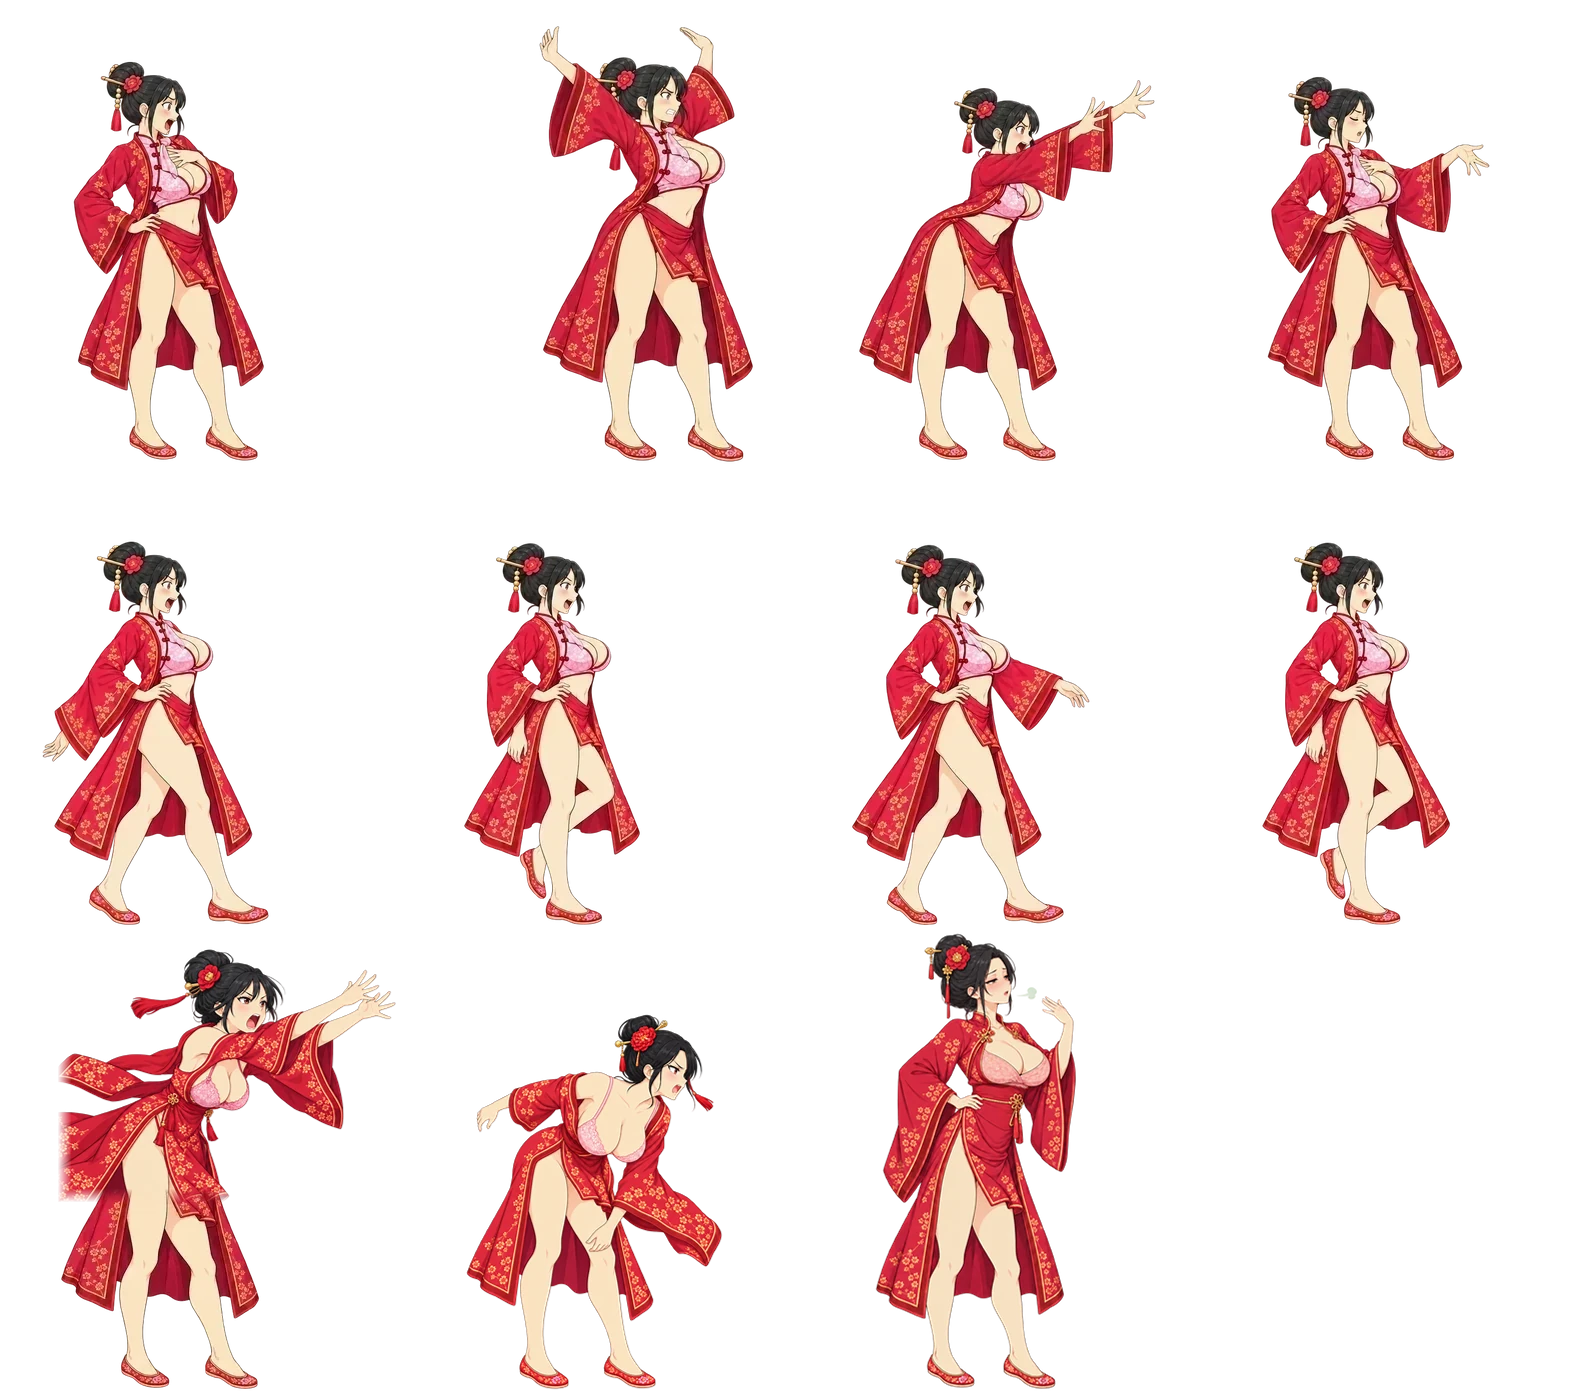
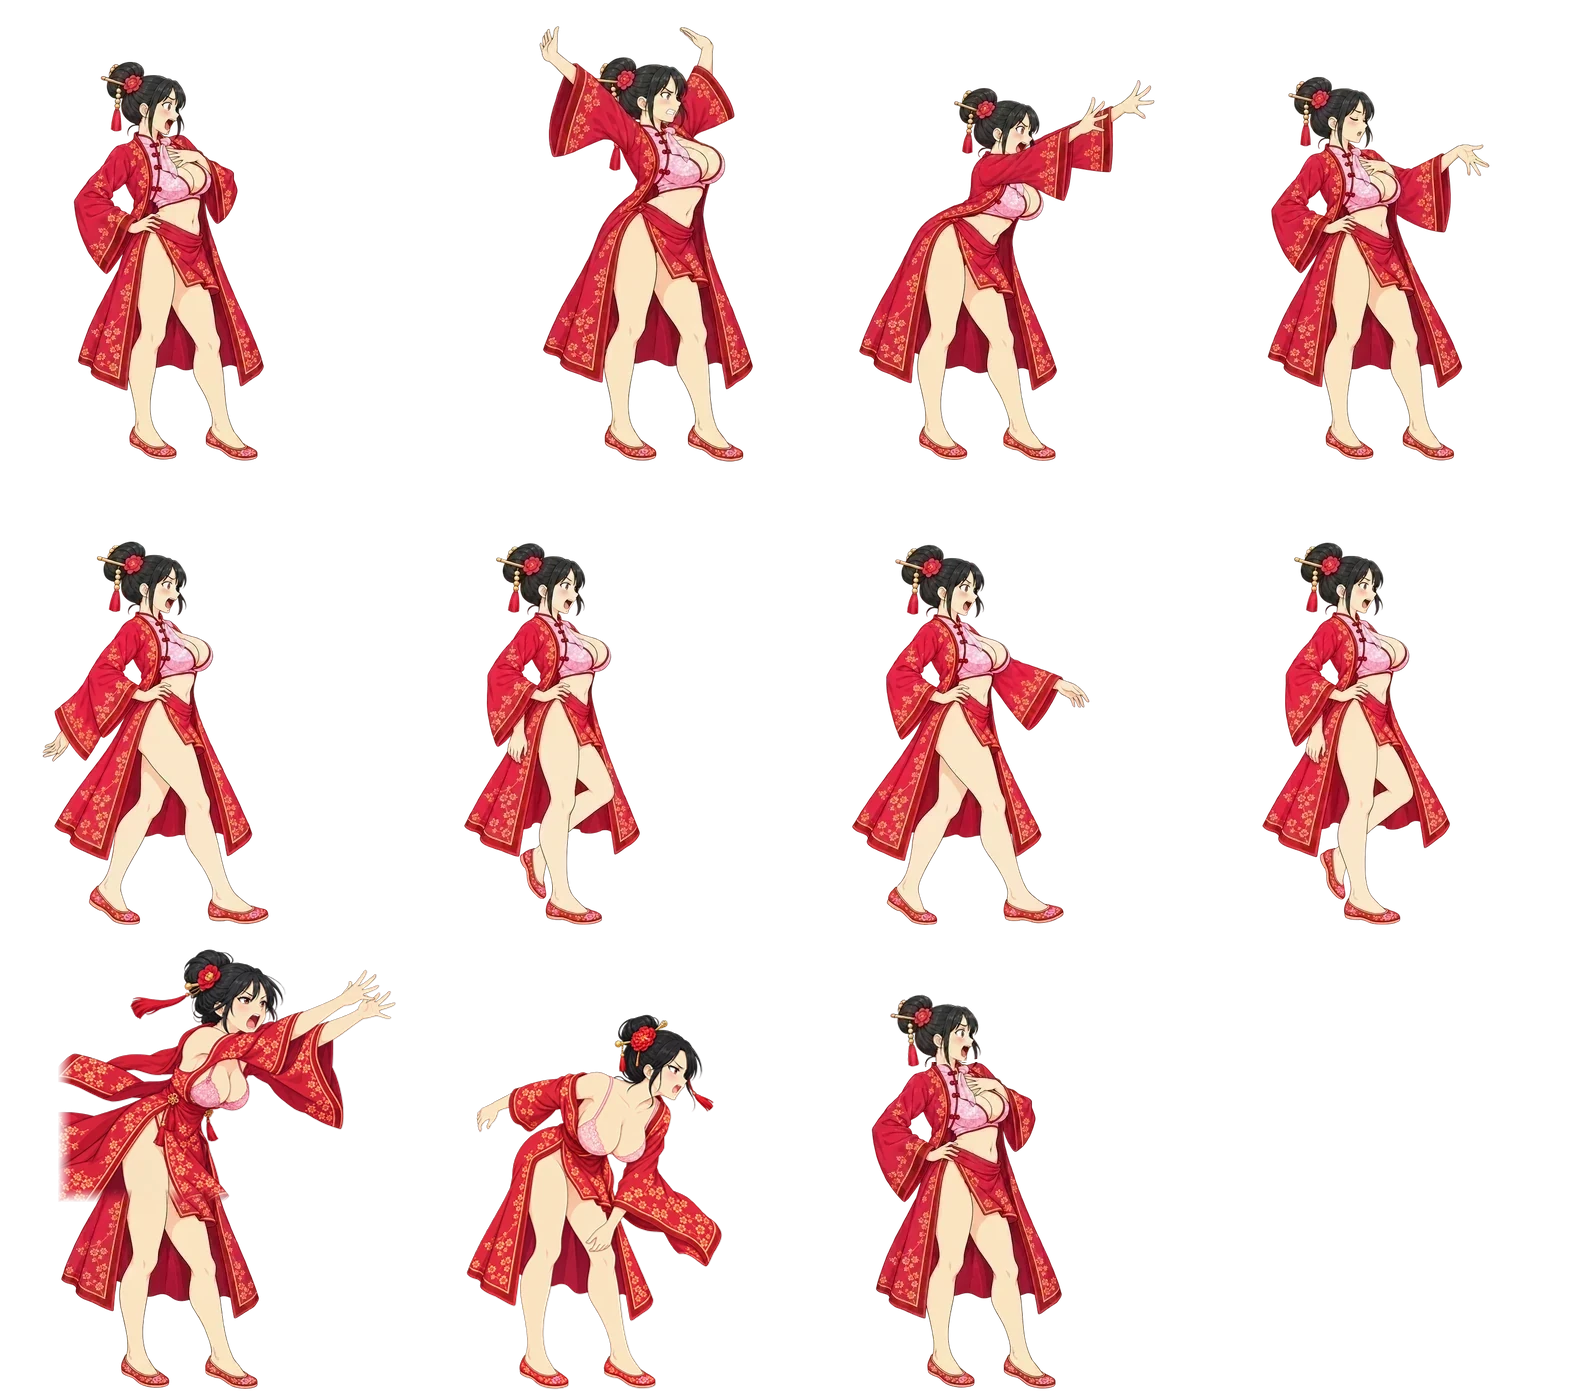
feat: G5 idle2 重做——idle 头绕脖子歪 9°（切件，G5_tong/headidle2.py，身子逐像素同 idle），待机轮换接回；算盘挂件 idle2 位置同 idle

Changed region(s): [[0.5219, 0.6487, 0.6754, 0.9576], [0.6447, 0.9885, 0.6754, 1.0], [0.5833, 0.9885, 0.614, 1.0]]

diff --git a/chashouji/web/trio_bestie.js b/chashouji/web/trio_bestie.js
@@ -312,12 +312,12 @@ const TRIO_BESTIE = {
          dist = 6 步 × 59.5 × s，写死：不写时引擎按 cell × s + 30 取整成 6 步、每步压短 0.3 px */
       enter: { kind: 'walk', fps: 6, bob: 6, stride: 119, dist: 299.9, seq: [[['walk1', 'walk2', 'walk3', 'walk4'], 9]] },
       exit: { frame: ['walk1', 'walk2', 'walk3', 'walk4'], fps: 8, flip: true, T: 0.8 },
-      idle: { frame: 'idle', breathe: [0.014, 0.8, 0] },   /* idle2 停用（2026-10-02 总控）：现有 idle2 是整张重生的人，头顶比 idle 高 56 px、站姿也变了，待机轮换时人忽大忽小；等按 idle 底局部重画（addframes inplace）再接回 */
+      idle: { frame: 'idle', breathe: [0.014, 0.8, 0], alt: { frame: 'idle2', every: [1.2, 2.2], hold: [0.6, 1.0] } },   /* idle2 = 头绕脖子歪 9°（切件，bestie/G5_tong/headidle2.py，身子逐像素同 idle）；原整张重生的 idle2 头顶高 56 px，769478b 停用后换掉 */
       /* 算盘是挂件层，和甩出去的是同一把：3D 图集 prop_abacus 最正面那一格转正（bestie/G5_tong/abacus_part.py，屏幕长边 90 px，改 s 要重跑），
          上面一根红吊绳吊在左胯，绕绳结晃；举过头顶 / 甩出去那两帧不画（在手里的是 3D 算盘）。
          ammo: true = 胯上这把就是甩出去的那把：飞出去还没落完就不画（不然 follow 帧胯上一把、空中一把），落完从吊绳结长回来 */
       parts: [{ src: 'assets/trio/G5_abacus.webp', pivot: [55, 3], z: 1, sway: [0.1, 0.9, 0], ammo: true,
-                at: { idle: [118, 238, 0], follow: [118, 246, 0], walk1: [124, 250, 0], walk2: [118, 250, 0], walk3: [124, 250, 0], walk4: [118, 250, 0], idle2: [128, 238, 0] } }],
+                at: { idle: [118, 238, 0], follow: [118, 246, 0], walk1: [124, 250, 0], walk2: [118, 250, 0], walk3: [124, 250, 0], walk4: [118, 250, 0], idle2: [118, 238, 0] } }],   // idle2 身子同 idle
       /* 两手举过头顶（后排：出手点在女生头顶以上）→ 往前甩出 → 捂胸叹气。3D 算盘照道具表 r 40 cell 115 scale 1.35，转速 π / T */
       atk: { kind: 'throw', item: 'abacus', r: 40, atlas: { src: 'assets/trio/prop_abacus.webp', n: 36, cols: 6, cell: 115, scale: 1.35 },
              seq: [['wind', 0.26], ['release', 0.06, 'fire'], ['throw', 0.1], ['through', 0.12], ['follow', 0.25]],   // 精闺1 P6：release 出手瞬间 / through 跟随（bestie/tools/addframes.py）

diff --git a/chashouji/v14/trio/bestie/G5_tong/headidle2.py b/chashouji/v14/trio/bestie/G5_tong/headidle2.py
@@ -1,0 +1,17 @@
+"""G5 待机换姿势 idle2（精闺1 P7，2026-10-02 总控）：idle 帧的头绕脖子歪 9°（愣住的人歪头）。
+原 idle2 是整张重生的人（头顶高 56 px、站姿也变），769478b 停用；按规范要以 idle 为底只改局部，但 G5 待机两只手都压在身上（按胸口、叉腰）、
+胳膊切不下来，以 idle 为底的局部重绘又两次被上游审核拒，所以改动头：格内 y < Y 只有头、发髻和簪子（四周透明），抠出来绕颈点转、贴回 —— 身子逐像素同 idle。
+直接替换图集里 idle2 那一格；重新 build 图集之后再跑一次。在 chashouji 下：python3 v14/trio/bestie/G5_tong/headidle2.py"""
+import json, os
+import numpy as np
+from PIL import Image
+WEB = os.path.join(os.path.dirname(os.path.abspath(__file__)), '../../../../web/assets/trio')
+Y, PIV, ROT = 134, (160, 136), 9     # 切口行（领口上沿）、颈点（格内）、转多少度（正 = 逆时针 = 头往后歪）
+m = json.load(open(os.path.join(WEB, 'G5_tong.json'))); a = Image.open(os.path.join(WEB, 'G5_tong.webp')).convert('RGBA')
+cw, ch = m['cell']; C = m['cols']; assert m['cell'] == [399, 464], '切口和颈点量在 cell 399×464 的图集上'
+cell = lambda n: (m['frames'].index(n) % C * cw, m['frames'].index(n) // C * ch)
+x, y = cell('idle'); A = np.array(a.crop((x, y, x + cw, y + ch))); sel = np.mgrid[:ch, :cw][0] < Y
+head = A.copy(); head[~sel] = 0; rest = A.copy(); rest[sel] = 0
+i2 = Image.fromarray(rest); i2.alpha_composite(Image.fromarray(head).rotate(ROT, resample=Image.BICUBIC, center=PIV))
+x, y = cell('idle2'); a.paste(i2, (x, y))
+a.save(os.path.join(WEB, 'G5_tong.webp'), 'WEBP', quality=90, method=6)
